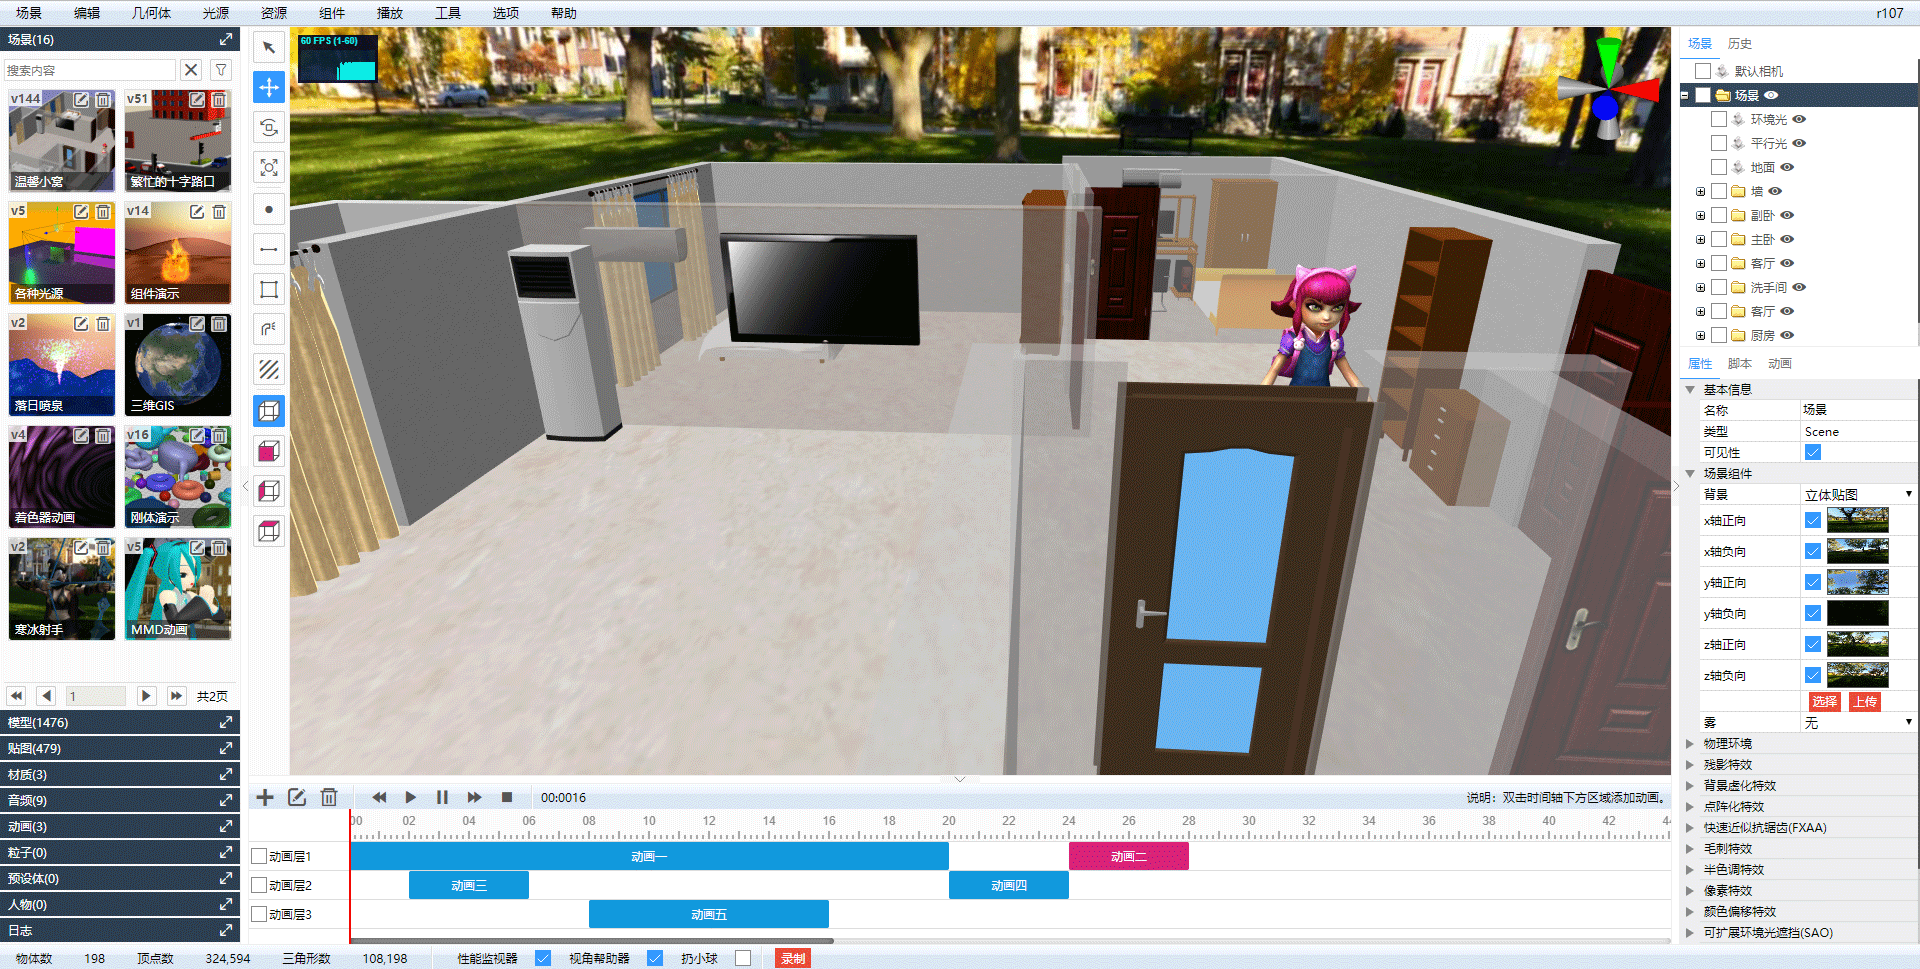
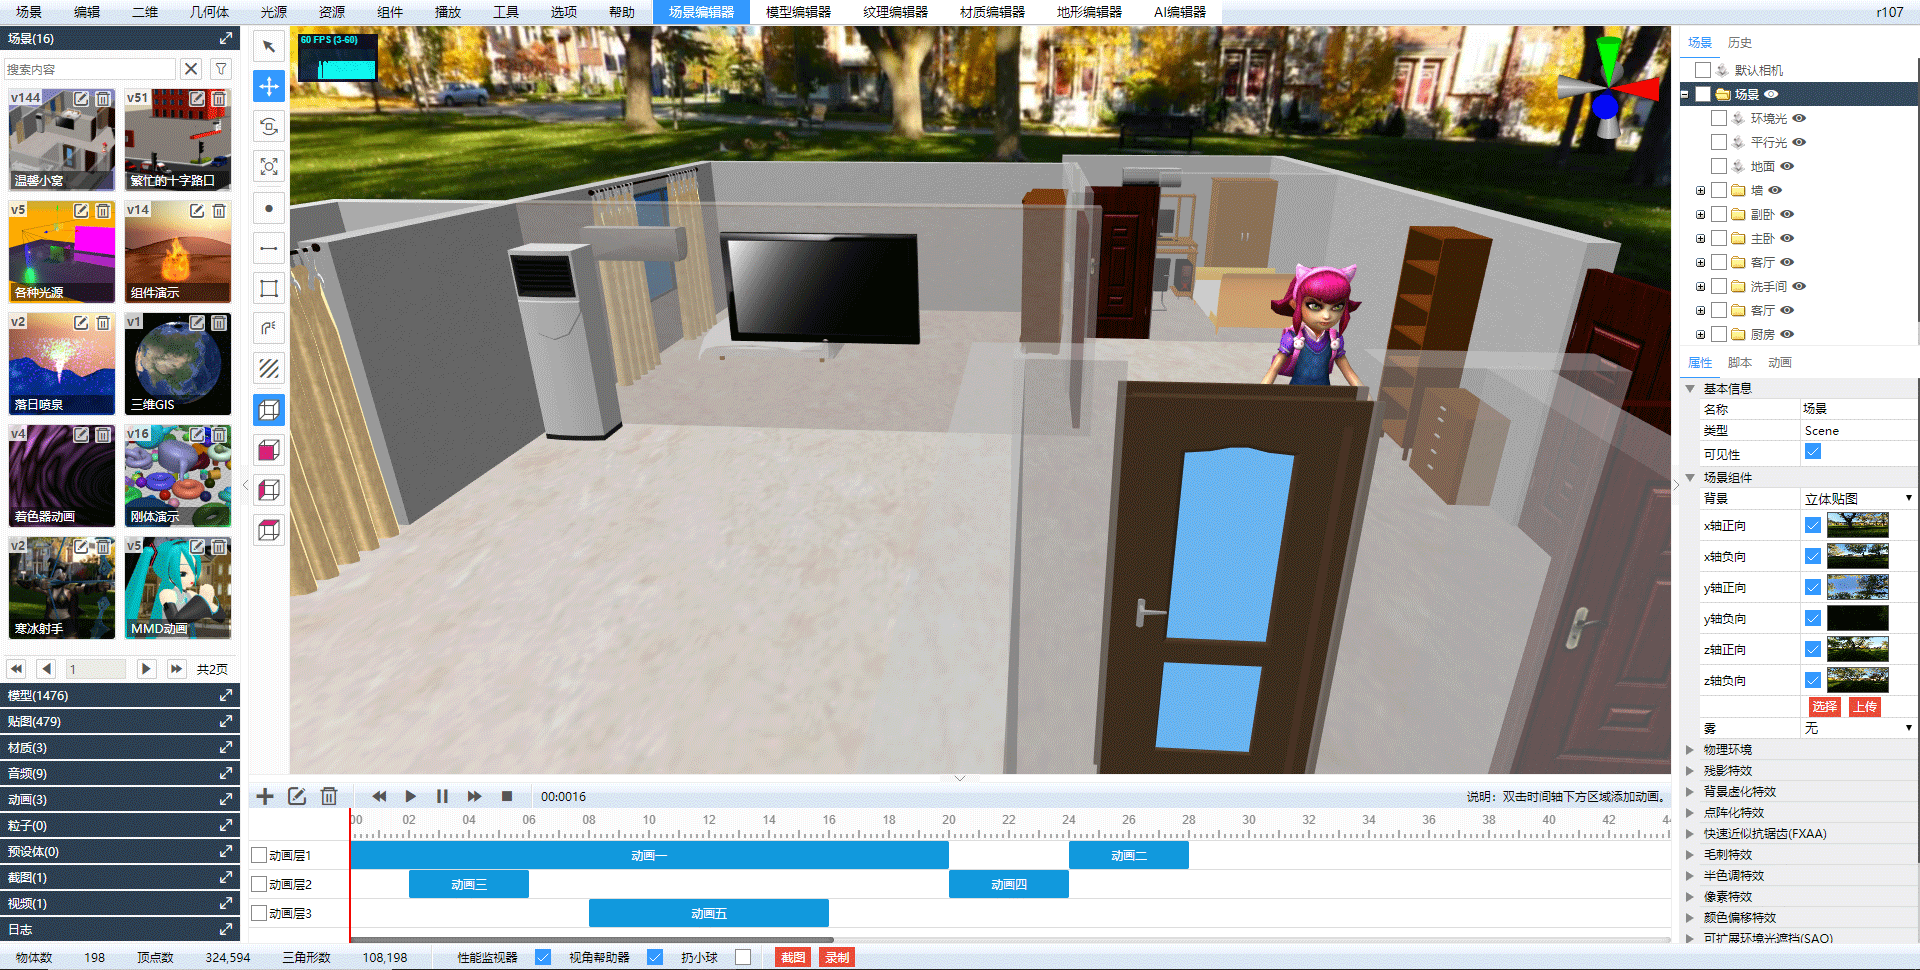
发布v0.3.2。

diff --git a/ShadowEditor.Web/src/editor/assets/AssetsPanel.jsx b/ShadowEditor.Web/src/editor/assets/AssetsPanel.jsx
@@ -69,17 +69,17 @@ class AssetsPanel extends React.Component {
             <Accordion name={'Prefab'} title={`${_t('Prefab')}(${prefabCount})`} maximizable={true}>
                 <PrefabPanel className={'subPanel'} show={7 === activeIndex}></PrefabPanel>
             </Accordion>
-            <Accordion name={'Character'} title={`${_t('Character')}(${characterCount})`} maximizable={true}>
+            {/* <Accordion name={'Character'} title={`${_t('Character')}(${characterCount})`} maximizable={true}>
                 <CharacterPanel className={'subPanel'} show={8 === activeIndex}></CharacterPanel>
-            </Accordion>
+            </Accordion> */}
             <Accordion name={'Screenshot'} title={`${_t('Screenshot')}(${screenshotCount})`} maximizable={true}>
-                <ScreenshotPanel className={'subPanel'} show={9 === activeIndex}></ScreenshotPanel>
+                <ScreenshotPanel className={'subPanel'} show={8 === activeIndex}></ScreenshotPanel>
             </Accordion>
             <Accordion name={'Video'} title={`${_t('Video')}(${videoCount})`} maximizable={true}>
-                <VideoPanel className={'subPanel'} show={10 === activeIndex}></VideoPanel>
+                <VideoPanel className={'subPanel'} show={9 === activeIndex}></VideoPanel>
             </Accordion>
             <Accordion name={'Log'} title={`${_t('Logs')}`} maximizable={true}>
-                <LogPanel className={'subPanel'} show={11 === activeIndex}></LogPanel>
+                <LogPanel className={'subPanel'} show={10 === activeIndex}></LogPanel>
             </Accordion>
         </AccordionLayout>;
     }

diff --git a/README.md b/README.md
@@ -3,32 +3,21 @@
 Supported Languages: 中文 / [繁體中文](README-tw.md) / [English](README-en.md) / 日本語 / 한국어 / русский / Le français
 
 * 名称：Shadow Editor
-* 版本：v0.3.2(开发中)
+* 版本：v0.3.2
 * 简介：基于`three.js`的场景编辑器。
 
 ## v0.3.2即将更新
+
+* 发布日期：2019年9月8日
+* 更新日志：
 
 1. 导出Collada模型文件。
 2. 导出DRACO模型文件。
 3. 菜单栏新增场景编辑器、模型编辑器、纹理编辑器、材质编辑器、地形编辑器、AI编辑器选项卡。(未实现)
 4. 新增渲染器属性窗口。
-5. 新增截图工具，截图资源管理。
-6. 新增录制视频资源管理。
-
-## v0.3.1更新
-
-* 发布日期：2019年8月25日
-* 更新日志：
-
-1. 新增录制屏幕工具，可将编辑器界面录制成视频，目前该视频只能使用浏览器播放。
-2. 增加正视图、侧视图、顶视图，支持平移和缩放。
-3. 使用`i18next`模块重构了国际化模块，英文界面不再包含任何中文字符。
-4. 新增以下语言支持：`繁體中文`、`日本語`、`한국어`、`русский`、`Le français`。
-5. 完成补间动画模块的改版。
-6. 修复移动物体时的性能问题。
-7. 新增性能监视器和视角帮助器设置。
-8. 新增调试模式，启用时，可显示开发者工具和不完善的功能。
-9. 新增纹理生成器。(演示)
+5. 新增截图工具，截图资源管理，截图查看工具。
+6. 录制视频工具优化，新增录制视频资源管理，视频查看工具。
+7. 基于Tensorflow的可视化编辑器框架搭建。(Python, Tensorflow, Flask)
 
 ## 项目截图
 
@@ -67,17 +56,18 @@ Supported Languages: 中文 / [繁體中文](README-tw.md) / [English](README-en
 10. 在线编辑js脚本、着色器程序，带智能提示。
 11. 自带播放器，实时演示场景动态效果，支持全屏和新窗口播放，可以直接嵌入项目`iframe`中。
 12. 支持补间动画、骨骼动画、粒子动画、mmd动画、lmesh动画（lolking网站lol模型）。
-13. 支持场景、模型、贴图、材质、音频、动画、粒子、预设体、角色资源管理，支持自定义分类，根据汉字和拼音快速搜索。其中，粒子、预设体、角色资源管理暂未实现相应功能。
+13. 支持场景、模型、贴图、材质、音频、动画、粒子、预设体、截图、视频管理，支持自定义分类，根据汉字和拼音快速搜索。其中，粒子、预设体暂未实现相应功能。
 14. 支持第一视角控制器、飞行控制器、轨道控制器、指针锁定控制器、轨迹球控制器5种控制器。
 15. 支持点阵化特效、颜色偏移特效、残影特效、背景虚化、快速近似抗锯齿(FXAA)、毛刺特效、半色调特效、全屏抗锯齿(SSAA)、像素特效、可扩展环境光遮挡(SAO)、多重采样抗锯齿(SMAA)、屏幕空间环境光遮蔽(SSAO)、时间抗锯齿(TAA)。
 16. 提供历史记录和日志功能，支持撤销、重做。
-17. 支持导出`gltf`、`obj`、`ply`、`stl`模型。
+17. 支持导出`gltf`、`obj`、`ply`、`stl`、`Collada`、`DRACO`模型。
 18. 支持`bullet`物理引擎。正方体、圆形、圆柱体、二十面体、酒杯、平面、球体、茶壶、轮胎、纽结和加载的模型都支持刚体组件。支持可视化设置碰撞体形状（正方体、球体）、质量和惯性。
 19. 具有平移、旋转、缩放、在物体表面绘制点、线、贴花的工具，实时统计场景种物体、顶点、三角形数量。
-20. 支持场景一键导出功能。
+20. 支持场景发布功能，可以将场景发布成静态资源，部署到任何一台服务器上。
 21. 软件内置语言：`中文`、`繁體中文`、`English`、`日本語`、`한국어`、`русский`、`Le français`。
 22. 支持色调旋转(hue-rotate)、饱和度、亮度、高斯模糊(blur)、对比度、灰度、颜色反转(invert)、复古(sepia)滤镜。
 23. 支持版本控制。
+24. 支持截图工具，视频录制工具。
 
 ## 使用指南
 

diff --git a/docs-dev/UpdateLog.md b/docs-dev/UpdateLog.md
@@ -1,5 +1,18 @@
 ## 更新日志
 
+**v0.3.2**
+
+* 发布日期：2019年9月8日
+* 更新日志：
+
+1. 导出Collada模型文件。
+2. 导出DRACO模型文件。
+3. 菜单栏新增场景编辑器、模型编辑器、纹理编辑器、材质编辑器、地形编辑器、AI编辑器选项卡。(未实现)
+4. 新增渲染器属性窗口。
+5. 新增截图工具，截图资源管理，截图查看工具。
+6. 录制视频工具优化，新增录制视频资源管理，视频查看工具。
+7. 基于Tensorflow的可视化编辑器框架搭建。(Python, Tensorflow, Flask)
+
 **v0.3.1**
 
 * 发布日期：2019年8月25日
